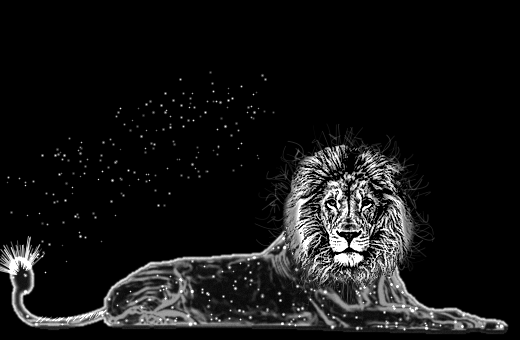
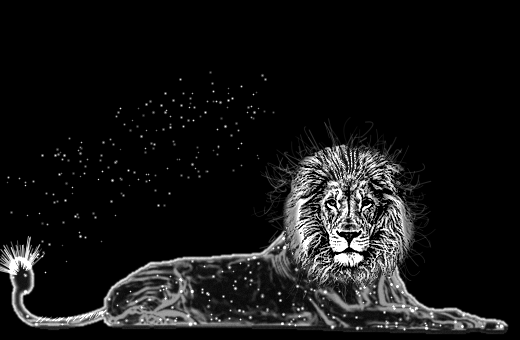
second

diff --git a/src/components/LionCanvas.tsx b/src/components/LionCanvas.tsx
@@ -12,10 +12,10 @@ import { getLionMode, type LionMode } from "@/lib/lionMode";
  * are dots, mid tones are digits, highlights are heavy symbols. Poses dissolve into each other
  * cell by cell, like particles re-forming.
  *
- * The requested behaviour comes from src/lib/lionMode.ts (sit | walk | watch):
- *  - sit (default): the lion lies at its resting place looking at the visitor, turns its head and yawns.
+ * The requested behaviour comes from src/lib/lionMode.ts (sit | walk):
+ *  - sit (default): the lion lies at its resting place, follows the mouse with its head (turning from
+ *                   profile-left through frontal to profile-right) and yawns when idle.
  *  - walk:          it gets up and walks from left to right across the hero in a loop.
- *  - watch:         it goes to the resting place, lies down and follows the mouse with its head.
  * Internal phases: walk, approach (walks to the resting place), settle (lies down), sit, rise (gets up).
  */
 
@@ -27,10 +27,11 @@ const CROSS_SECONDS = 24; // time to cross the screen: a calm walk, also used wh
 const SIT_ZOOM = 1.3; // enlargement of the lying pose
 const HEAD = { x: 344, y: 212, rx: 82, ry: 88 }; // head of the lying pose, in map pixels (for the idle motion)
 const FACE = { x: 349, y: 230, rx: 30, ry: 42 }; // eyes, nose and mouth only: the part that follows the mouse
-const TURN_X = 3.4; // largest sideways shift of the whole head (mane and face) while following the mouse, in grid cells
-const TURN_Y = 1.8; // largest vertical shift of the head, in grid cells
-const GAZE_X = 2.2; // extra shift of the face only (eyes, nose, mouth), so the face turns a bit more than the mane
-const GAZE_Y = 1.2;
+const TURN_X = 4.5; // largest sideways shift of the whole head (mane and face) while following the mouse, in grid cells
+const TURN_Y = 3; // largest vertical shift of the head, in grid cells
+const GAZE_X = 3; // extra shift of the face only (eyes, nose, mouth), so the face turns a bit more than the mane
+const GAZE_Y = 2;
+const FOLLOW_RANGE = 0.3; // mouse distance (fraction of the hero width) at which the head is fully turned
 const V_MIN = 0.11; // below this a cell stays empty, so the dark body reads as a void with a glowing outline
 
 const PALETTE: Record<Theme, [string, string, string, string]> = {
@@ -166,7 +167,7 @@ export default function LionCanvas() {
       lw = Math.min(W * (small ? 0.98 : 0.72), (H * 0.7) / aspect);
       const lh = lw * aspect;
       restX = small ? (W - lw) / 2 : W - lw - W * 0.015;
-      y0 = H - lh - 6;
+      y0 = H - lh - 6 + (small ? lh * 0.04 : 0);
       if (prevW > 1) lx *= W / prevW;
       if (mode === "sit" || mode === "settle") lx = restX;
 
@@ -220,7 +221,7 @@ export default function LionCanvas() {
 
     /** Advance the behaviour state machine by dt seconds. */
     const update = (dt: number, target: LionMode) => {
-      const resting = target !== "walk"; // sit and watch both mean "be at the resting place"
+      const resting = target !== "walk";
       const speed = (W + lw) / CROSS_SECONDS;
       const wrap = () => {
         if (lx > W + 40) lx = -lw - 40;
@@ -344,6 +345,7 @@ export default function LionCanvas() {
       const S0 = sitGrids[0];
       const S1 = sitGrids[Math.min(1, sitGrids.length - 1)];
       const S2 = sitGrids[Math.min(2, sitGrids.length - 1)]; // mouth open
+      const S3 = sitGrids[3] ?? S1; // head turned to the left
       const sitS = smooth(0, 1, sitMix);
       const headS = smooth(0, 1, headMix);
       const mouthS = smooth(0, 1, mouthMix);
@@ -355,9 +357,9 @@ export default function LionCanvas() {
       // and the tail tip swishes on the left.
       const idle = still ? 0 : smooth(0.7, 1, sitS);
 
-      // Watch mode: the head follows the mouse. The direction is measured from the head to the pointer
-      // and eased, so the head glides instead of snapping.
-      const wantsWatch = !still && getLionMode() === "watch" && mode === "sit";
+      // The head follows the mouse while the lion rests and faces the visitor. The direction is measured
+      // from the head to the pointer and eased, so the head glides instead of snapping.
+      const wantsWatch = !still && mode === "sit" && headMix >= 1 && pointer !== null;
       watchMix = clamp01(watchMix + (wantsWatch ? dt / 0.6 : -dt / 0.5));
       let tx = 0;
       let ty = 0;
@@ -365,7 +367,7 @@ export default function LionCanvas() {
         const hr = host.getBoundingClientRect();
         const hx = hr.left + gx0 + (headX + 0.5) * cw;
         const hy = hr.top + y0 + (headY + 0.5) * ch;
-        tx = Math.max(-1, Math.min(1, (pointer.x - hx) / (W * 0.35)));
+        tx = Math.max(-1, Math.min(1, (pointer.x - hx) / (W * FOLLOW_RANGE)));
         ty = Math.max(-1, Math.min(1, (pointer.y - hy) / (H * 0.5)));
       }
       const ease = Math.min(1, dt * 6);
@@ -384,6 +386,11 @@ export default function LionCanvas() {
       const turnY = idle * wm * followY * TURN_Y;
       const gazeX = idle * wm * followX * GAZE_X;
       const gazeY = idle * wm * followY * GAZE_Y;
+      // Larger turns swap the head for a profile pose, cell by cell: left profile when the mouse is on
+      // the left, right profile when it is on the right, frontal in between.
+      const yawL = idle * wm * smooth(0.12, 0.85, -followX);
+      const yawR = idle * wm * smooth(0.12, 0.85, followX);
+      const mouthEff = mouthS * clamp01(1 - 2.5 * (yawL + yawR));
 
       for (const b of buckets) b.length = 0;
       const tick = Math.floor(clock * 3);
@@ -441,7 +448,12 @@ export default function LionCanvas() {
               }
             }
             let gs = h2(x, y, 23) < headS ? S1[sidx] : S0[sidx];
-            if (mouthS > 0 && h2(x, y, 41) < mouthS) gs = S2[sidx];
+            if (yawL > 0 || yawR > 0) {
+              const r = h2(x, y, 53);
+              if (r < yawL) gs = S3[sidx];
+              else if (r < yawL + yawR) gs = S0[sidx];
+            }
+            if (mouthEff > 0 && h2(x, y, 41) < mouthEff) gs = S2[sidx];
             g = h2(x, y, 37) < sitS ? gs : gw;
           }
           const v = g / 255;
@@ -541,7 +553,11 @@ export default function LionCanvas() {
     const onPointer = (e: PointerEvent) => {
       pointer = { x: e.clientX, y: e.clientY };
     };
+    const onLeave = () => {
+      pointer = null;
+    };
     window.addEventListener("pointermove", onPointer, { passive: true });
+    document.documentElement.addEventListener("pointerleave", onLeave);
 
     const load = (src: string) =>
       new Promise<HTMLImageElement>((resolve, reject) => {
@@ -583,6 +599,7 @@ export default function LionCanvas() {
       ro.disconnect();
       io.disconnect();
       window.removeEventListener("pointermove", onPointer);
+      document.documentElement.removeEventListener("pointerleave", onLeave);
     };
   }, []);
 

diff --git a/src/components/LionControls.tsx b/src/components/LionControls.tsx
@@ -3,15 +3,10 @@
 import { useI18n } from "@/i18n/I18nProvider";
 import { setLionMode, useLionMode } from "@/lib/lionMode";
 
-const btn =
-  "inline-flex min-h-11 items-center gap-2 rounded-lg border px-3 font-mono text-xs transition hover:border-accent hover:text-accent";
-
-/** Two toggles for the hero lion: make it walk, or make it sit and follow the cursor. */
+/** Toggle for the hero lion: make it walk, or let it rest again. */
 export default function LionControls() {
   const { t } = useI18n();
-  const mode = useLionMode();
-  const walking = mode === "walk";
-  const watching = mode === "watch";
+  const walking = useLionMode() === "walk";
 
   return (
     <div className="lion-controls flex flex-wrap gap-2" role="group" aria-label={t("hero.lionControls")}>
@@ -19,23 +14,14 @@ export default function LionControls() {
         type="button"
         aria-pressed={walking}
         onClick={() => setLionMode(walking ? "sit" : "walk")}
-        className={`${btn} ${walking ? "border-accent bg-accent/15 text-accent" : "border-line text-muted"}`}
+        className={`inline-flex min-h-11 items-center gap-2 rounded-lg border px-3 font-mono text-xs transition hover:border-accent hover:text-accent ${
+          walking ? "border-accent bg-accent/15 text-accent" : "border-line text-muted"
+        }`}
       >
         <svg width="14" height="14" viewBox="0 0 24 24" fill="currentColor" aria-hidden="true">
           {walking ? <path d="M6 4h4v16H6zM14 4h4v16h-4z" /> : <path d="M7 4v16l13-8z" />}
         </svg>
         {t("hero.walk")}
-      </button>
-      <button
-        type="button"
-        aria-pressed={watching}
-        onClick={() => setLionMode(watching ? "sit" : "watch")}
-        className={`${btn} ${watching ? "border-accent bg-accent/15 text-accent" : "border-line text-muted"}`}
-      >
-        <svg width="14" height="14" viewBox="0 0 24 24" fill="none" stroke="currentColor" strokeWidth="2" strokeLinecap="round" strokeLinejoin="round" aria-hidden="true">
-          <path d="M5 3l14 7-6 2-2 6z" />
-        </svg>
-        {t("hero.follow")}
       </button>
     </div>
   );

diff --git a/src/components/About.tsx b/src/components/About.tsx
@@ -20,13 +20,27 @@ export default function About() {
               <span className="h-3 w-3 rounded-full bg-accent/25" />
               <span className="ml-3 font-mono text-xs text-muted">~/about.md</span>
             </div>
-            <div className="space-y-4 p-5 leading-relaxed text-fg sm:p-6">
-              <p>{t("about.p1")}</p>
-              <p className="text-muted">{t("about.p2")}</p>
-              <p className="font-mono text-sm text-accent">
-                <span className="text-muted">{"// "}</span>
-                {t("about.p3")}
-              </p>
+            <div className="flex flex-col gap-5 p-5 sm:flex-row sm:items-start sm:gap-7 sm:p-6">
+              <div className="relative order-first mx-auto aspect-[4/5] w-36 shrink-0 overflow-hidden rounded-xl border border-line sm:order-last sm:mx-0 sm:w-44 lg:w-48">
+                {/* eslint-disable-next-line @next/next/no-img-element */}
+                <img src="/me.jpg" alt="Mykhaylo" width={800} height={1000} className="h-full w-full object-cover object-top" />
+                <div
+                  aria-hidden="true"
+                  className="pointer-events-none absolute inset-0"
+                  style={{
+                    background: "linear-gradient(to top, color-mix(in srgb, var(--accent-strong) 28%, transparent), transparent 55%)",
+                    mixBlendMode: "soft-light",
+                  }}
+                />
+              </div>
+              <div className="min-w-0 flex-1 space-y-4 leading-relaxed text-fg">
+                <p>{t("about.p1")}</p>
+                <p className="text-muted">{t("about.p2")}</p>
+                <p className="font-mono text-sm text-accent">
+                  <span className="text-muted">{"// "}</span>
+                  {t("about.p3")}
+                </p>
+              </div>
             </div>
           </div>
         </div>

diff --git a/src/lib/lionMode.ts b/src/lib/lionMode.ts
@@ -4,18 +4,16 @@ import { useSyncExternalStore } from "react";
 
 /**
  * What the hero lion is asked to do. It is kept on <html data-lion="..."> so the canvas can read it
- * every frame without React re-renders, and the buttons subscribe to it.
- *  - sit:   rests (default), head turns and it yawns from time to time
- *  - walk:  walks across the hero
- *  - watch: rests and follows the mouse with its head
+ * every frame without React re-renders, and the button subscribes to it.
+ *  - sit:  rests (default), follows the mouse with its head and yawns from time to time
+ *  - walk: walks across the hero
  */
-export type LionMode = "sit" | "walk" | "watch";
+export type LionMode = "sit" | "walk";
 
 const listeners = new Set<() => void>();
 
 export function getLionMode(): LionMode {
-  const v = document.documentElement.dataset.lion;
-  return v === "walk" || v === "watch" ? v : "sit";
+  return document.documentElement.dataset.lion === "walk" ? "walk" : "sit";
 }
 
 export function setLionMode(mode: LionMode) {

diff --git a/src/components/Hero.tsx b/src/components/Hero.tsx
@@ -64,7 +64,7 @@ export default function Hero() {
       />
       <LionCanvas />
 
-      <div className="container-x relative z-10 px-5 pt-10 sm:pt-16 lg:pt-20">
+      <div className="container-x relative z-10 px-5 pt-10 pb-[52vw] min-[700px]:pb-0 sm:pt-16 lg:pt-20">
         <div data-lion-avoid className="flex w-fit max-w-full flex-col">
         <p className="fade-up font-mono text-sm text-muted" style={{ animationDelay: "0.05s" }}>
           <span className="text-accent">$</span> {t("hero.prompt")}

diff --git a/src/i18n/I18nProvider.tsx b/src/i18n/I18nProvider.tsx
@@ -18,7 +18,7 @@ export type Lang = "en" | "pt" | "uk";
 export const LANGS: { code: Lang; short: string; label: string }[] = [
   { code: "en", short: "EN", label: "English" },
   { code: "pt", short: "PT", label: "Português" },
-  { code: "uk", short: "UK", label: "Українська" },
+  { code: "uk", short: "UA", label: "Українська" },
 ];
 
 const dicts: Record<Lang, unknown> = { en, pt, uk };
